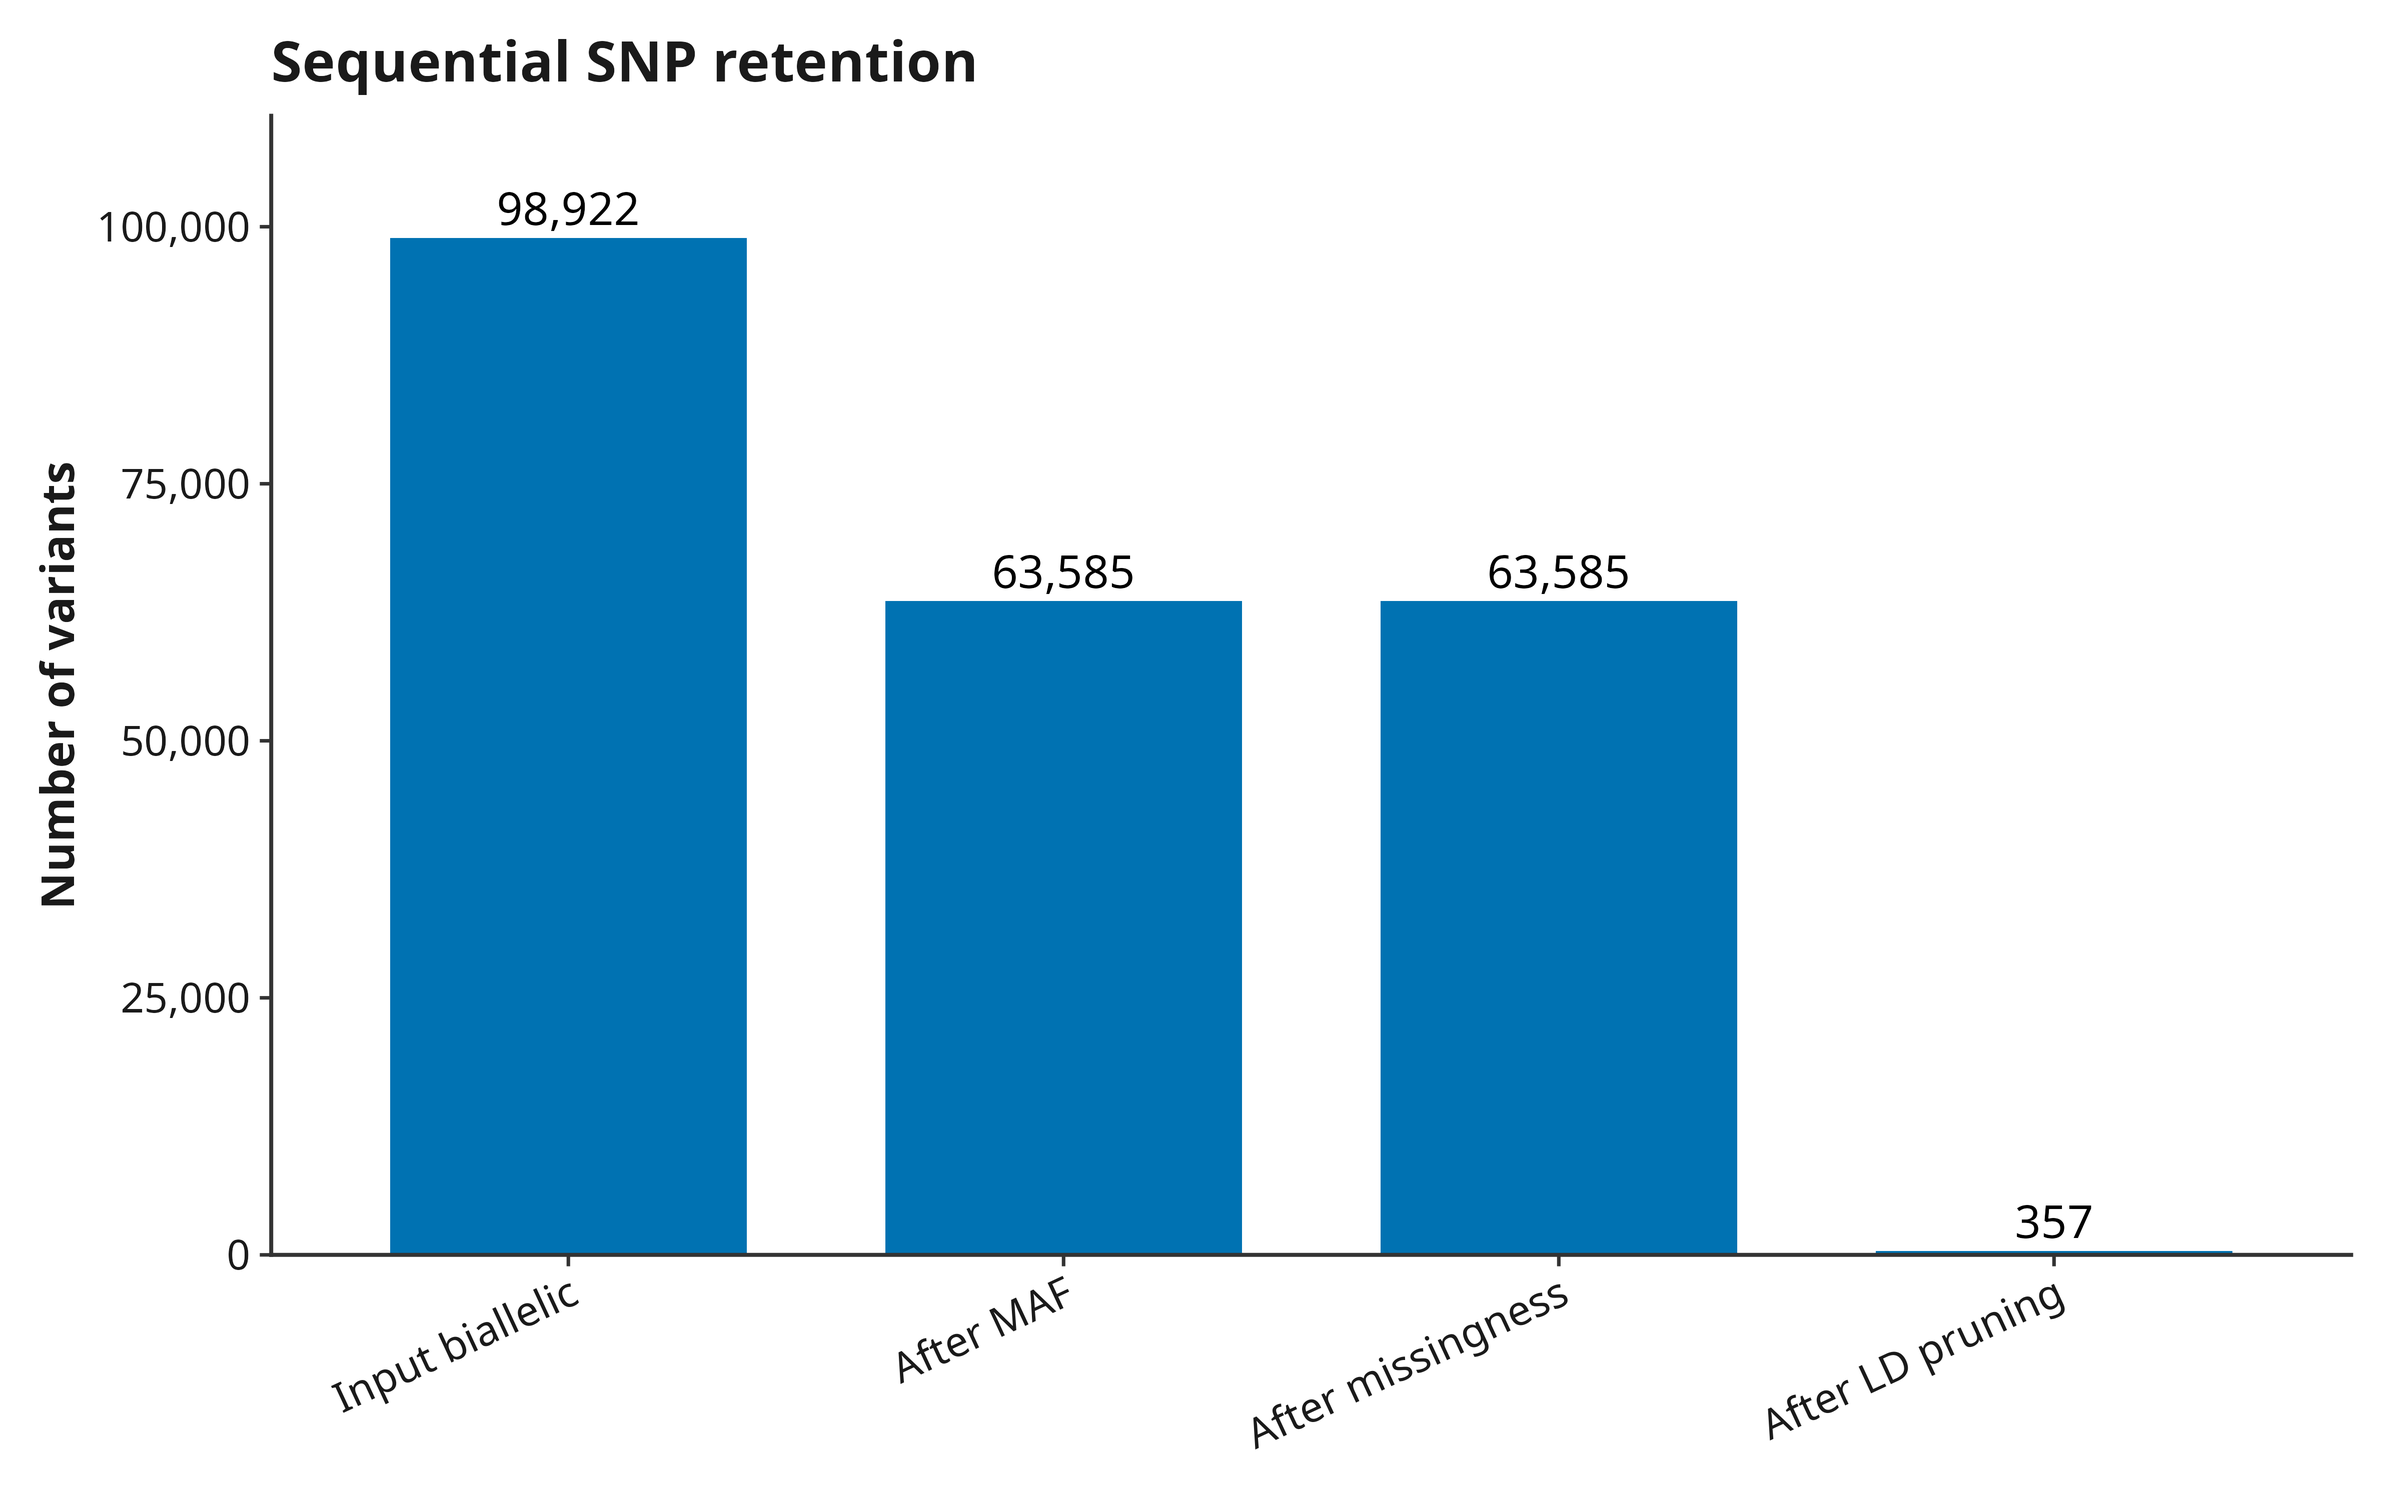
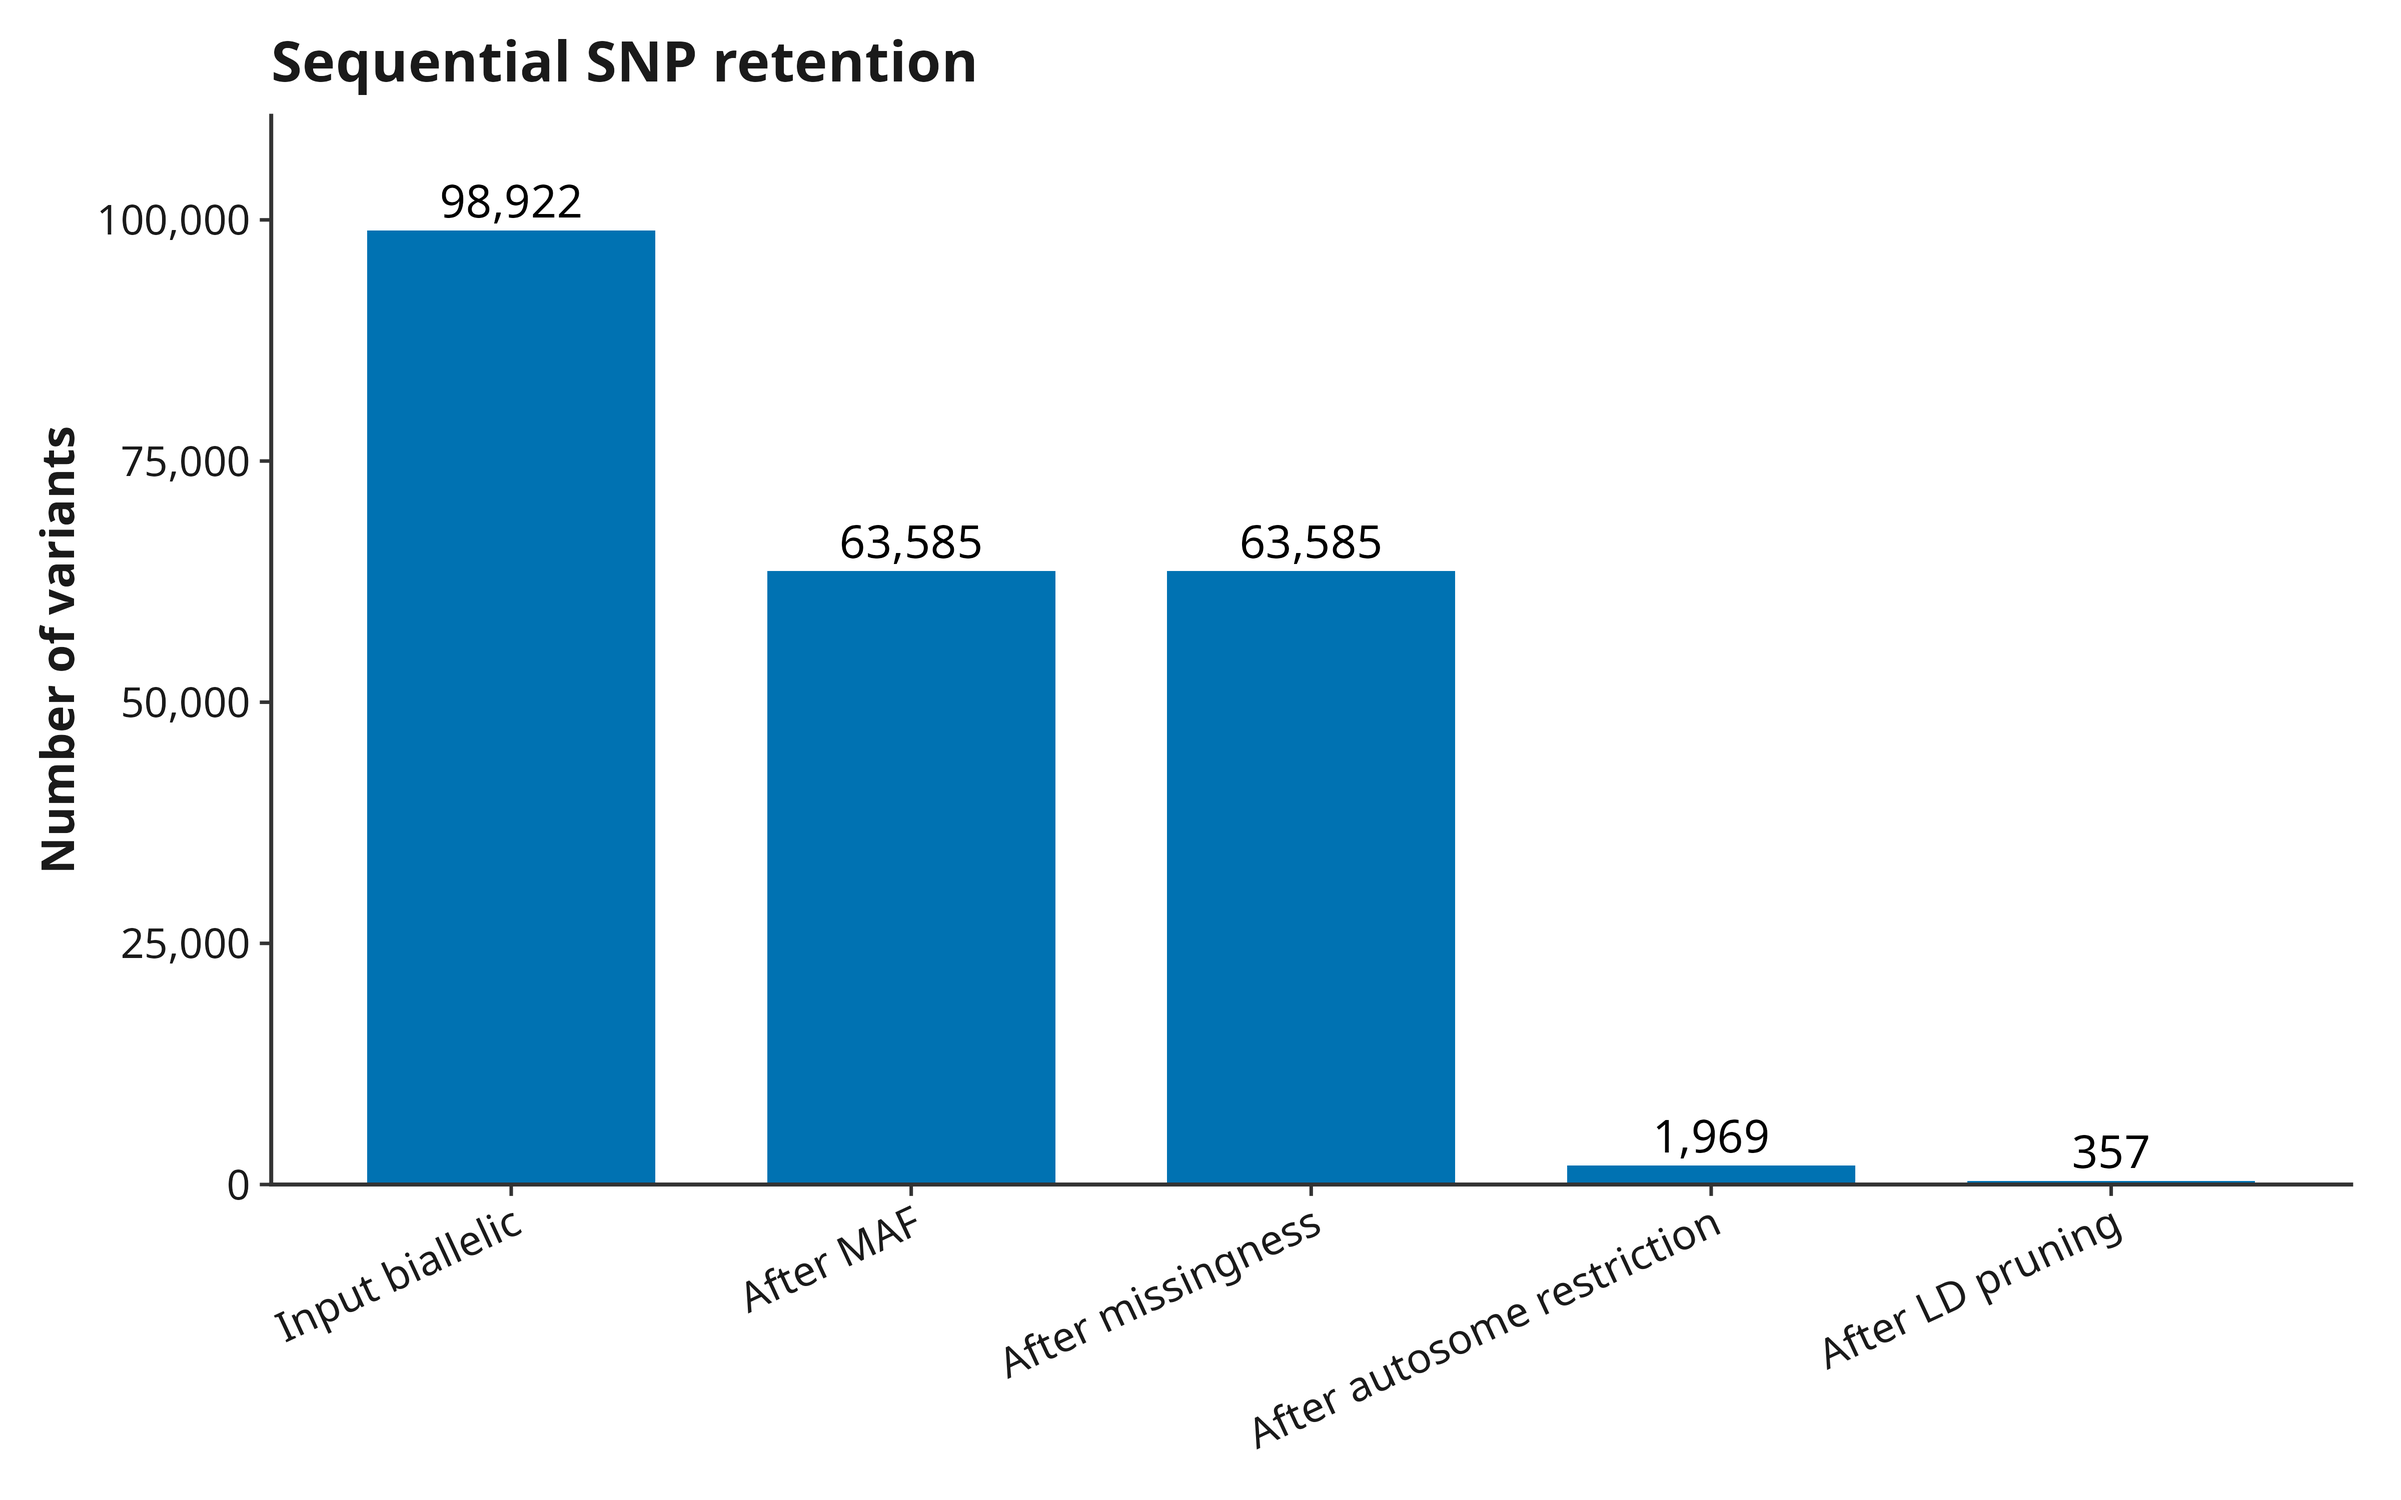
Give the autosome restriction its own row in the QC retention tables and figure
Sex-chromosome markers set aside by qc.autosome_only were counted as
LD-pruning removals (quickstart: 61,616 of the 63,228 "removed by LD
pruning"). Reporting only; no analysis result changes. Quickstart
figure, wiki, vignette and report note updated.

Claude-Session: https://claude.ai/code/session_01D4onVdW5nemQZbdv3J94nG

diff --git a/NEWS.md b/NEWS.md
@@ -1,5 +1,9 @@
 # popgenVCF 1.0.15.9000 development
 
+- **Third code pass, increment 5 (QC reporting):**
+
+  - **`qc.R` -- the QC retention table booked the autosome restriction to LD pruning.** With `qc.autosome_only` (the default), markers on the configured sex chromosomes leave the analysis set between the missingness filter and LD pruning, but `07_QC_sequential_counts.tsv`, `06_QC_independent_counts.tsv`, the `04_SNP_retention` figure, and the report's Quality control table had no row for it. On the quickstart data "After LD pruning" showed 63,228 markers removed; 61,616 of those were chromosome X/Y markers and pruning itself took 1,969 down to 357. An "After autosome restriction" row (and "Autosomal analysis set" criterion) now appears whenever the restriction removes anything; runs without sex-chromosome markers keep identical tables. Quickstart figure, wiki, vignette, and report note updated. No analysis result changes.
+
 - **Third code pass, increment 4 (metadata import):**
 
   - **`io.R` -- metadata header auto-detection missed most non-standard headers.** It compared the raw lowercased first row against a short fixed list, so `Sample ID`/`Sample.ID`, the `individual_id` synonym accepted further down, quoted CSV headers, and a BOM-prefixed first column were all read as data rows. Worst, a custom header was never recognized, so configuring `input.sample_column`/`population_column` -- whose whole purpose is a non-standard header -- failed with "require headered metadata" unless `metadata_header: yes` was also set. Detection now uses the normalized form, the full synonym list, and any configured column names.

diff --git a/wiki/Results-and-Interpretation.md b/wiki/Results-and-Interpretation.md
@@ -73,10 +73,14 @@ not a data-quality failure, the exact mechanism described above.
 ![Sequential SNP retention through each filtering stage, from the quickstart example](figures/04_SNP_retention.png)
 
 The funnel above is the same sequence of numbers just quoted, in order:
-input, after MAF, after missingness (identical to after MAF here -- this
-cohort's variants are either well-covered or not called at all, nothing in
-between to filter further), and after LD pruning to the 357-SNP final
-marker set.
+input (98,922), after MAF (63,585), after missingness (identical to after
+MAF here -- this cohort's variants are either well-covered or not called at
+all, nothing in between to filter further), after the autosome restriction
+(1,969 -- the 61,616 chromosome X/Y markers set aside for the sex-check
+module leave the analysis set here, by far the largest single step), and
+after LD pruning to the 357-SNP final marker set. The autosome-restriction
+row appears only when `qc.autosome_only` actually removes markers; before
+1.0.16 its removals were booked to the LD-pruning step.
 
 ## PCA
 
